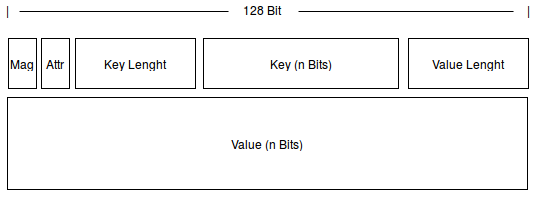
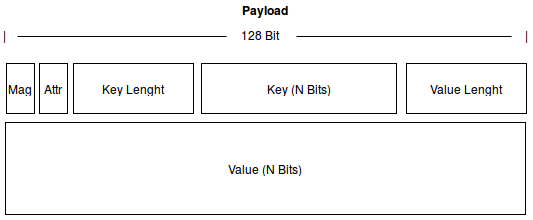
finished produceRequest

diff --git a/implementation_protocol.tex b/implementation_protocol.tex
@@ -94,17 +94,95 @@ used.
 
 \begin{figure}[H]
     \centering
-    \includegraphics[width=0.7\textwidth]{images/protocol-request-header.png}
-    \caption{Common Request Header}
-    \label{fig:protocol-request-header.png}
+    \includegraphics[width=0.7\textwidth]{images/impl-prot-types-requestMessage.png}
+    \caption{Fields of type RequestMessage}
+    \label{fig:impl-prot-types-requestMessage}
 \end{figure}
+
+\begin{table}[H]
+\centering
+\begin{tabular}{ l  l  p{10cm} }
+\hline
+RequestSize   & Data.Word16     & Gives the size of the subsequent request message in bytes. The client can read requests by first reading this 4 byte size as an integer N and then reading and parsing the subsequent N bytes of the request. \\ \hline
+ApiKey        & Data.Word32     & This is a numeric id for the API being invoked (                                                                                                                                                              \\ \hline
+ApiVersion    & Data.Word32     & Number of element in following list.                                                                                                                                                                          \\ \hline
+CorrelationId & Data.Word32     & Will be passed back in the response by the broker unmodified. It is useful for matching request and response between the client and server.                                                                   \\ \hline
+StringLength  & Data.Word16     & Length, in bytes, of string ClientId                                                                                                                                                                          \\ \hline
+ClientID      & Data.ByteString & Identifier for the client application                                                                                                                                                                         \\ \hline
+Request       &                 & API specific Request type (either ProduceRequest, FetchRequest, or others)                                                                                                                                    \\ \hline
+\end{tabular}
+\end{table}
+
+TODO: Because the RequestSize is only needed once to determine the length of the whole Request, it is is not part of the type RequestMessage
 
 \subsubsection{ProduceRequest}
 Request Payload for Produce API. Sends MessageSet's (see 
 \ref{impl-protocol-types-data}) to the broker. For efficiency it allows sending
 message sets intended for many topic partitions in a single request (see
-\ref{impl-prot-batching}) .
+\ref{impl-prot-batching}). MessageSets are not preceded by an int32 like other
+array elements in the protocol.
 
+\begin{figure}[H]
+    \centering
+    \includegraphics[width=0.7\textwidth]{images/impl-prot-types-produceRequest.png}
+    \caption{Format of type ProduceRequest; * = N repetitions }
+    \label{fig:impl-prot-types-produceRequest}
+\end{figure}
+
+\begin{table}[H]
+\centering
+\begin{tabular}{ l  l  p{10cm} }
+\hline
+RequiredAcks  & Data.Word16 & This field indicates how many acknowledgements the broker should receive before responding to the request.                       \\ \hline
+Timeout       & Data.Word32 & This provides a maximum time in milliseconds the broker can await the receipt of the number of acknowledgements in RequiredAcks. \\ \hline
+ListLength    & Data.Word32 & Number of element in following list.                                                                                             \\ \hline
+{[}PrTopic{]} & Data.List   & Sequence of PrTopics, see below.                                                                                                  \\ \hline
+\end{tabular}
+\end{table}
+
+TODO: Functionality of ReqAcks and Timeout are not implemented yet. 
+
+A ProduceRequest includes N repetitions of the PrTopic type whereas the producer
+client is able to send messages for multiple different topics:
+
+\begin{figure}[H]
+    \centering
+    \includegraphics[width=0.7\textwidth]{images/impl-prot-types-prTopic.png}
+    \caption{Format of type PrTopic; * = N repetitions }
+    \label{fig:impl-prot-types-produceRequest}
+\end{figure}
+
+\begin{table}[H]
+\centering
+\begin{tabular}{ l  l  p{10cm} }
+\hline
+StringLength      & Data.Word16     & Length, in bytes, of string TopicName.              \\ \hline
+TopicName         & Data.ByteString & Name of the topic that data is being published to. \\ \hline
+ListLength        & Data.Word32     & Number of element in following list.                \\ \hline
+[PrPartition] & Data.List          & Sequence of PrPartitions, see below.                \\ \hline
+\end{tabular}
+\end{table}
+
+The PrTopic in turn includes N repetitions of the PrPartition type
+whereas the producer client is able to send message for multiple partitions
+within a topic.  
+
+\begin{figure}[H]
+    \centering
+    \includegraphics[width=0.7\textwidth]{images/impl-prot-types-prPartition.png}
+    \caption{Format of type PrTopic; * = N repetitions }
+    \label{fig:impl-prot-types-produceRequest}
+\end{figure}
+
+\begin{table}[H]
+\centering
+\begin{tabular}{ l  l  p{11cm} }
+\hline
+PartitionNumber & Data.Word32 & The partition Id that data is being published to.                                                                                                                                        \\ \hline
+MessageSetSize  & Data.Word32 & Sequences of MessageSet's are not preceded by an int32 like other array elements in the protocol. Instead, this field determines the total size, in bytes, of the following MessageSet's. \\ \hline
+[MessageSet]      & Data.List      & Finally the PrPartition type also holds the actual messages (as defined in \ref{impl-protocol-types-data}.                                                                                \\ \hline
+\end{tabular}
+\end{table}
 \subsubsection{FetchRequest}
 Request Payload for Fetch API. Fetchs chunk of one or more logs for some
 topic-partitions. Defines a starting offset at which to begin fetch. 
@@ -121,7 +199,7 @@ used.
 \begin{figure}[H]
     \centering
     \includegraphics[width=0.7\textwidth]{images/protocol-response-header.png}
-    \caption{Common Response Header}
+    \caption{Format of type ResponseMessage}
     \label{fig:protocol-response-header.png}
 \end{figure}
 
@@ -146,7 +224,7 @@ from it.
 \begin{figure}[H]
     \centering
     \includegraphics[width=0.7\textwidth]{images/impl-prot-types-messageSet.png}
-    \caption{MessageSet format as common format for transported data}
+    \caption{Format of type MessageSet}
     \label{fig:impl-prot-types-messageSet}
 \end{figure}
 
@@ -155,8 +233,8 @@ from it.
 \begin{tabular}{ l  l  p{11cm} }
 \hline
 Offset      & Data.Word64 & Determines log offset number in log.  When the producer is sending messages it doesn't actually know the offset and can fill in any value here it likes. \\ \hline
-MessageSize & Data.Word32 & MessageSets are not preceded by an int32 like other array elements in the protocol. Instead, each single MessageSet is defined by its Size in Bytes.               \\ \hline
-Message     & N Bits     & Message format, see below                                                                                                                                \\ \hline
+MessageSize & Data.Word32 & Determines size of Message in Bytes.               \\ \hline
+Message     &     & Message format, see below.                                                                                                                    \\ \hline
 \end{tabular}
 \end{table}
 
@@ -168,7 +246,7 @@ combine them in another type, see Payload.
 \begin{figure}[H]
     \centering
     \includegraphics[width=0.7\textwidth]{images/impl-prot-types-message.png}
-    \caption{MessageSet format as common format for transported data}
+    \caption{Format of type Message}
     \label{fig:impl-prot-types-message}
 \end{figure}
 
@@ -177,7 +255,7 @@ combine them in another type, see Payload.
 \begin{tabular}{ l  l  p{11cm} }
 \hline
 CRC     & Data.Word32 & The CRC is the CRC32 of the remainder of the message bytes. This is used,to check the integrity of the message on the broker and consumer. \\ \hline
-Payload & N Bits      & Payload format, see below                                                                                                                  \\ \hline
+Payload &      & Payload format, see below.                                                                                                                  \\ \hline
 \end{tabular}
 \end{table}
 
@@ -187,7 +265,7 @@ This types defines the actual payload of a message with its meta info.
 \begin{figure}[H]
     \centering
     \includegraphics[width=0.7\textwidth]{images/impl-prot-types-payload.png}
-    \caption{MessageSet format as common format for transported data}
+    \caption{Format of type Payload}
     \label{fig:impl-prot-types-payload}
 \end{figure}
 
@@ -197,9 +275,9 @@ This types defines the actual payload of a message with its meta info.
 \hline
 Magic       & Data.Word8      & This is a version id used to allow backwards compatible evolution of the message binary format. The current value is 0.                                         \\ \hline
 Attributes  & Data.Word8      & This byte holds metadata attributes about the message. The lowest 2 bits,contain the compression codec used for the message. The other bits,should be set to 0. \\ \hline
-KeyLen      & Data.Word32     & Determines length of Key field in bytes                                                                                                                         \\ \hline
+KeyLen      & Data.Word32     & Determines length of Key field in bytes.                                                                                                                         \\ \hline
 Key         & Data.ByteString & The key is an optional message key that is used for partition assignment. The key can be null.                                                                  \\ \hline
-ValueLength & Data.Word32     & Determines length of Value field in bytes                                                                                                                       \\ \hline
+ValueLength & Data.Word32     & Determines length of Value field in bytes.                                                                                                                      \\ \hline
 Value       & Data.ByteString & The actual message contents as an opaque byte array. The message can be null.                                                                                   \\ \hline
 \end{tabular}
 \end{table}
